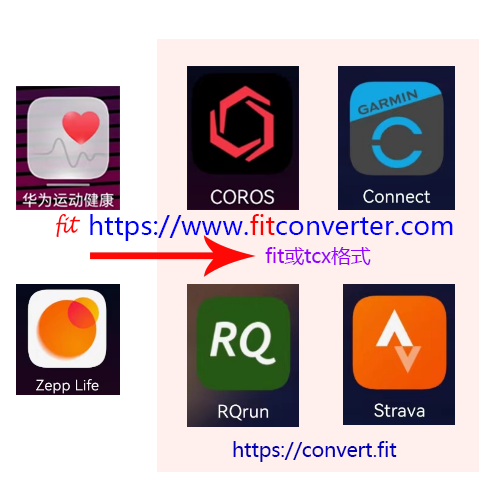
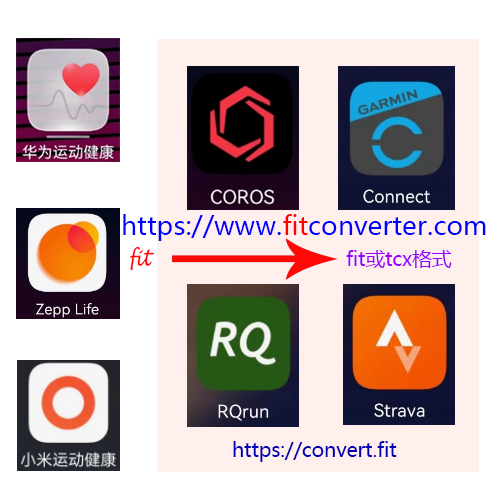
[fix]更新日志：支持小米运动健康支持泳池游泳类型

Changed region(s): [[0.03, 0.06, 0.99, 0.96]]

diff --git a/src/markdown/index.md b/src/markdown/index.md
@@ -1,11 +1,13 @@
 ---
-date: 2023-12-16
+date: 2023-12-23
 fakeAsUpdateDaily: true
 ---
 
 **每一次运动锻炼了我们的身体，都是我们努力的痕迹，值得留存在我们的记录里。不负每一滴汗水，尊重每一次付出！**
 
-本工具旨在为各位跑友转换运动记录数据，支持将**华为运动健康**、**Zepp Life**（原**小米运动**）、**小米运动健康**官方导出的运动数据转换成业内通用的fit（推荐）或tcx格式，然后即可顺利导入主流的运动平台，比如**高驰**、**佳明**、**RQrun**、**Strava**等。
+本工具旨在为各位跑友转换运动记录数据，支持将**华为运动健康**、**Zepp Life**（原**小米运动**）、**小米运动健康**（原**小米穿戴**）官方导出的运动数据转换成业内通用的fit（推荐）或tcx格式，然后即可顺利导入主流的运动平台，比如**高驰**、**佳明**、**RQrun**、**Strava**等。
+
+你是否在苦苦寻找一个能将自己之前的华为运动健康（或小米运动健康）app的运动数据导入到新的高驰（或佳明）app的工具，在网上看了太多几乎无用的文章，仍没有可行的途径将自己的之前的运动数据导入到新手表app内，来到这里即是终点，这里有你需要的**运动记录转换工具**！
 
 正在考虑支持fit和tcx格式互转、支持其它运动平台等功能。
 
@@ -13,10 +15,12 @@ fakeAsUpdateDaily: true
 
 <div style="display: flex; justify-content: space-between">
     <div style="width: 45%; margin-right: 1%">
+        <p>华为运动健康记录转换后导入高驰</p>
         <img src="/huawei_coros.jpeg"
                      title="华为运动记录转换后导入高驰效果" alt="华为运动记录转换后导入高驰效果"/>
     </div>
     <div style="width: 45%; margin-left: 1%">
+        <p>Zepp Life、小米运动健康记录转换后导入高驰</p>
         <img src="/zepp_coros.jpeg"
                      title="小米运动记录转换后导入高驰效果" alt="小米运动记录转换后导入高驰效果"/>
     </div>

diff --git a/src/markdown/convert/log.md b/src/markdown/convert/log.md
@@ -1,9 +1,12 @@
 ---
 title: 更新日志
 keywords: .tcx格式,.fit格式,格式转换,户外跑步运动记录,跑步机跑步运动记录,步行运动记录,户外自行车运动记录
-date: 2023-12-22
+date: 2023-12-23
 ---
 #### 日志
+
+- **2023-12-23**
+> **小米运动健康转换运动类型新增泳池游泳**
 
 - **2023-12-22**
 > **支持转换小米运动健康导出数据**
@@ -18,7 +21,7 @@ date: 2023-12-22
 > **优化对华为数据的解析，修复部分用户.fit文件导入佳明失败的bug，加入对划船机运动类型识别**
 
 - **2023-11-20**
-> 转换工具改用离线转换，不再服务器转换了，并实行先打赏🍗后转换
+> 转换工具改用离线转换，不再服务器转换了，实行**先打赏🍗后转换**
 
 - **2023-10-24**
 > 转换工具运行时严重影响共享服务器其它服务运行，暂时下调允许上传的压缩包大小上限
@@ -45,10 +48,10 @@ date: 2023-12-22
 > 页面兼容老版本浏览器
 
 - **2023-07-30**
-> .fit格式转换结果新增显示每公里距离、心率、配速（仅限华为）
+> **.fit格式转换结果新增显示每公里距离、心率、配速（仅限华为）**
 
 - **2023-07-29**
 > 显示各主要运动平台导入数据入口、本工具转换次数
 
 - **2023-07-28**
-> 修正华为数据轨迹漂移问题
+> **修正华为数据轨迹漂移问题**
